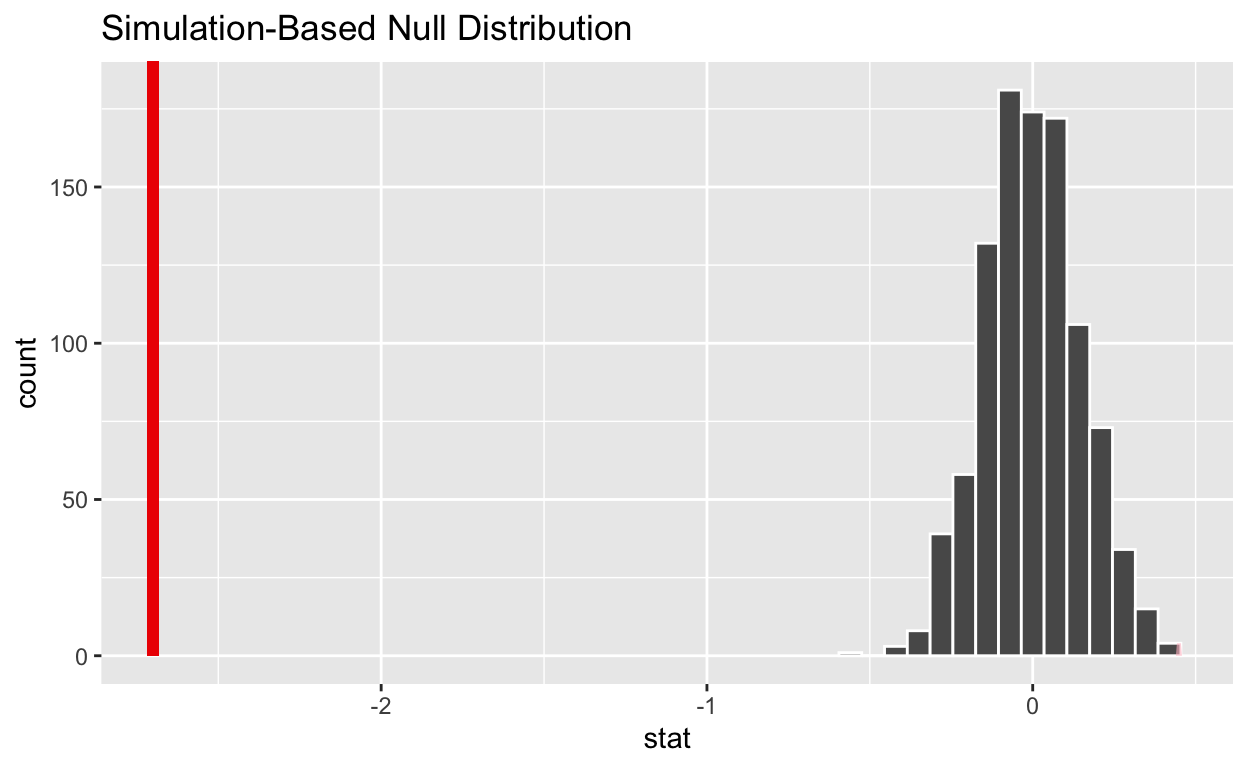
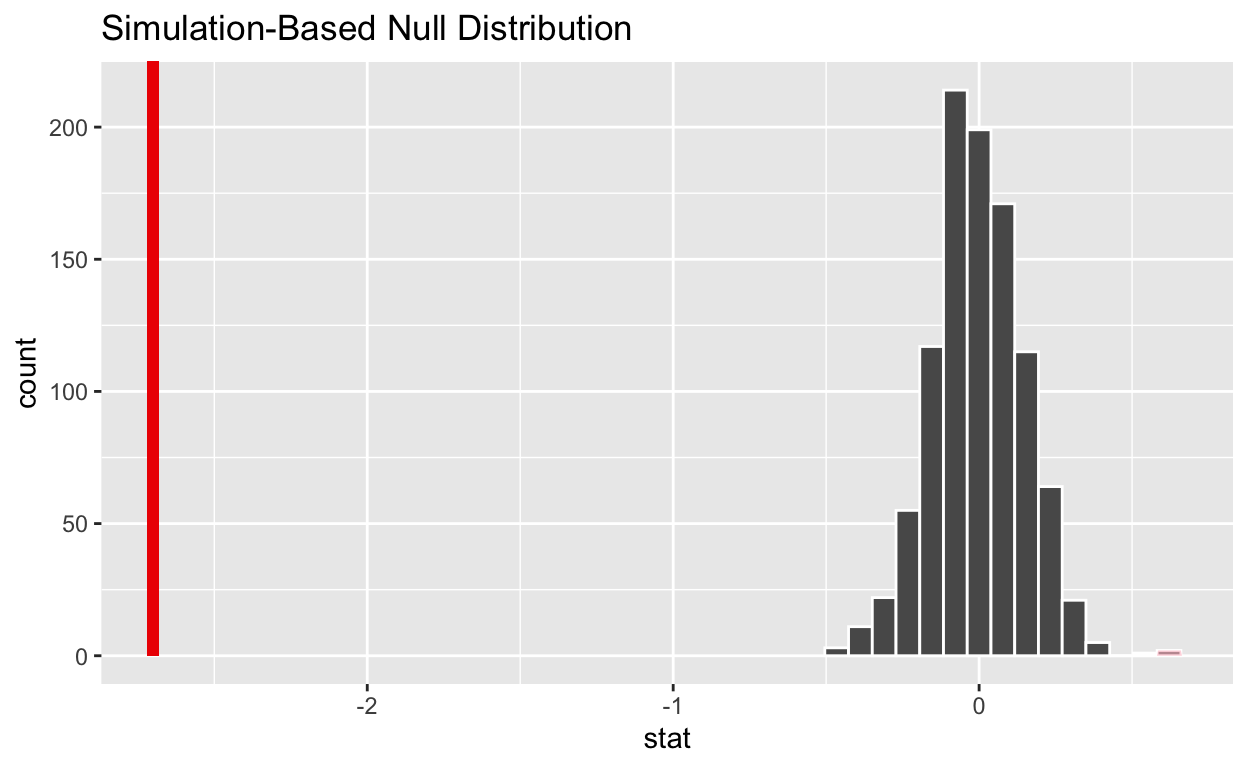
round 1

diff --git a/index.html b/index.html
@@ -48,7 +48,7 @@
   <!--/radix_placeholder_rmarkdown_metadata-->
   
   <script type="text/json" id="radix-resource-manifest">
-  {"type":"character","attributes":{},"value":["BVP-Nasdaq-Emerging-Cloud-Index (2).csv","BVP-Nasdaq-Emerging-Cloud-Index (2).xlsx","final-project-_files/anchor-4.2.2/anchor.min.js","final-project-_files/bowser-1.9.3/bowser.min.js","final-project-_files/distill-2.2.21/template.v2.js","final-project-_files/figure-html5/unnamed-chunk-1-1.png","final-project-_files/figure-html5/unnamed-chunk-1-2.png","final-project-_files/header-attrs-2.24/header-attrs.js","final-project-_files/jquery-3.6.0/jquery-3.6.0.js","final-project-_files/jquery-3.6.0/jquery-3.6.0.min.js","final-project-_files/jquery-3.6.0/jquery-3.6.0.min.map","final-project-_files/popper-2.6.0/popper.min.js","final-project-_files/tippy-6.2.7/tippy-bundle.umd.min.js","final-project-_files/tippy-6.2.7/tippy-light-border.css","final-project-_files/tippy-6.2.7/tippy.css","final-project-_files/tippy-6.2.7/tippy.umd.min.js","final-project-_files/webcomponents-2.0.0/webcomponents.js","final-project-.html","index_files/anchor-4.2.2/anchor.min.js","index_files/bowser-1.9.3/bowser.min.js","index_files/distill-2.2.21/template.v2.js","index_files/figure-html5/pressure-1.png","index_files/figure-html5/unnamed-chunk-1-1.png","index_files/figure-html5/unnamed-chunk-2-1.png","index_files/figure-html5/unnamed-chunk-2-2.png","index_files/figure-html5/unnamed-chunk-3-1.png","index_files/figure-html5/unnamed-chunk-4-1.png","index_files/figure-html5/unnamed-chunk-5-1.png","index_files/header-attrs-2.17/header-attrs.js","index_files/header-attrs-2.24/header-attrs.js","index_files/jquery-3.6.0/jquery-3.6.0.js","index_files/jquery-3.6.0/jquery-3.6.0.min.js","index_files/jquery-3.6.0/jquery-3.6.0.min.map","index_files/popper-2.6.0/popper.min.js","index_files/tippy-6.2.7/tippy-bundle.umd.min.js","index_files/tippy-6.2.7/tippy-light-border.css","index_files/tippy-6.2.7/tippy.css","index_files/tippy-6.2.7/tippy.umd.min.js","index_files/webcomponents-2.0.0/webcomponents.js","index.pdf","pollster-ratings.csv","raw-polls.csv"]}
+  {"type":"character","attributes":{},"value":["BVP-Nasdaq-Emerging-Cloud-Index (2).csv","BVP-Nasdaq-Emerging-Cloud-Index (2).xlsx","final-project-_files/anchor-4.2.2/anchor.min.js","final-project-_files/bowser-1.9.3/bowser.min.js","final-project-_files/distill-2.2.21/template.v2.js","final-project-_files/figure-html5/unnamed-chunk-1-1.png","final-project-_files/figure-html5/unnamed-chunk-1-2.png","final-project-_files/header-attrs-2.24/header-attrs.js","final-project-_files/jquery-3.6.0/jquery-3.6.0.js","final-project-_files/jquery-3.6.0/jquery-3.6.0.min.js","final-project-_files/jquery-3.6.0/jquery-3.6.0.min.map","final-project-_files/popper-2.6.0/popper.min.js","final-project-_files/tippy-6.2.7/tippy-bundle.umd.min.js","final-project-_files/tippy-6.2.7/tippy-light-border.css","final-project-_files/tippy-6.2.7/tippy.css","final-project-_files/tippy-6.2.7/tippy.umd.min.js","final-project-_files/webcomponents-2.0.0/webcomponents.js","final-project-.html","index_files/anchor-4.2.2/anchor.min.js","index_files/bowser-1.9.3/bowser.min.js","index_files/distill-2.2.21/template.v2.js","index_files/figure-html5/pressure-1.png","index_files/figure-html5/unnamed-chunk-1-1.png","index_files/figure-html5/unnamed-chunk-2-1.png","index_files/figure-html5/unnamed-chunk-2-2.png","index_files/figure-html5/unnamed-chunk-3-1.png","index_files/figure-html5/unnamed-chunk-4-1.png","index_files/figure-html5/unnamed-chunk-5-1.png","index_files/figure-html5/unnamed-chunk-7-1.png","index_files/header-attrs-2.17/header-attrs.js","index_files/header-attrs-2.24/header-attrs.js","index_files/jquery-3.6.0/jquery-3.6.0.js","index_files/jquery-3.6.0/jquery-3.6.0.min.js","index_files/jquery-3.6.0/jquery-3.6.0.min.map","index_files/popper-2.6.0/popper.min.js","index_files/tippy-6.2.7/tippy-bundle.umd.min.js","index_files/tippy-6.2.7/tippy-light-border.css","index_files/tippy-6.2.7/tippy.css","index_files/tippy-6.2.7/tippy.umd.min.js","index_files/webcomponents-2.0.0/webcomponents.js","index.pdf","pollster-ratings.csv","raw-polls.csv"]}
   </script>
   <!--radix_placeholder_navigation_in_header-->
   <!--/radix_placeholder_navigation_in_header-->
@@ -1471,8 +1471,8 @@
 <p><img src="index_files/figure-html5/pressure-1.png" width="624" /></p>
 </div>
 <p>Note that the <code>echo = FALSE</code> parameter was added to the code chunk to prevent printing of the R code that generated the plot.</p>
-<p>#INTRODUCTION:
-For my project I have decided to examine data related to elections from 1998 to 2020 to see what variables have caused polls to be inaccurate. Going into the project,I assumed that polls were, generally speaking, biased towards democrats given the inaccurate polls during the 2016 election. More broadly, as a result of the shock of the 2016 election, public confidence in polls and election predictions generally has plummeted. This has meant that some voters completely discopnect themselves from viewing political news before elections because they don’t trust polls and the media. To understand why polls can be inaccurate, I looked at two main explanatory variables: sample size and the way the polls were conducted.</p>
+<h1 id="introduction">INTRODUCTION:</h1>
+<p>For my project I have decided to examine data related to elections from 1998 to 2020 to see what variables have caused polls to be inaccurate. Going into the project, I assumed that polls were, generally speaking, biased towards democrats given the inaccurate polls during the 2016 election. More broadly, as a result of the shock of the 2016 election, public confidence in polls and election predictions generally has plummeted. This has meant that some voters completely disconnect themselves from viewing political news before elections because they don’t trust polls and the media. To understand why polls can be inaccurate, I looked at two main explanatory variables: sample size and the way the polls were conducted.</p>
 <div class="layout-chunk" data-layout="l-body">
 <div class="sourceCode">
 <pre class="sourceCode r"><code class="sourceCode r"><span><span class='kw'><a href='https://rdrr.io/r/base/library.html'>library</a></span><span class='op'>(</span><span class='va'><a href='https://github.com/tidymodels/infer'>infer</a></span><span class='op'>)</span></span>
@@ -1526,7 +1526,17 @@ For my project I have decided to examine data related to elections from 1998 to 
 <span>  <span class='fu'><a href='https://ggplot2.tidyverse.org/reference/labs.html'>labs</a></span><span class='op'>(</span>x <span class='op'>=</span> <span class='st'>"Direction of Poll bias"</span>, y <span class='op'>=</span> <span class='st'>"Count of Polls"</span><span class='op'>)</span></span>
 <span><span class='va'>biastotal</span></span></code></pre>
 </div>
-<img src="index_files/figure-html5/unnamed-chunk-1-1.png" width="624" />
+<p><img src="index_files/figure-html5/unnamed-chunk-1-1.png" width="624" /></p>
+</div>
+<p>As we can see, polling errors over the last 20 years are fairly evenly distrubited between Democrats and Republicans. But why are there errors in the first place?
+My research question: Is there a relationship between the way polls are conducted and the accuracy of the polls and how does sample size affect accuracy? My hypothesis was that polls that had larger sample sizes and those that were not conducted by live phone would prove to be the most accurate. This is because of ‘cancellation fear’ that many Trump supporters, particularly females, had in 2016 that made them afraid to admit support for candidate Trump to a live person.</p>
+<p>If I observe that polls with a larger sample size had lower mean errors, then this would support my hypothesis. If I observe that polls that were conducted by Interactive Voice Response (IVR) (an automated telephone system where a person speaks to a robot who recitates pre-recorded messages or texts-to-speech) polls were more accurate than live or mail polls, this would also support my hypothesis. Again, this is because a ‘quiet’ Trump supporter might feel more comfortable revealing their true opinions to a robot than a human</p>
+<p>This study will be informative for the purposes of identifying what types of polls are most accurate and if large sample sizes are actually necessary. Polls with large sample sizes can be more expensive to conduct; If we cannot prove that larger sample sizes increase accuracy then we can show polling organizations that they are not necessary.</p>
+<h1 id="data-and-research-method">Data and Research Method</h1>
+<p>I analyze data from elections from 1998-2020, which includes data from congressional and federal elections. I gained this data from 538’s database on elections. My data comes from two different datasets – one that focuses on different election results / poll error / and another that focuses on the methodologies of the pollster. The datasets include variables such as year, race, location, sample size, the margin predicted by the polls and the actual margin in the election. According to 538 (source of data), The ‘error’ column is the “Absolute value of the difference between the actual and polled result. This is calculated as <code>abs(margin_poll - margin_actual) "</code>bias<code>is calculated only for races in which the top two finishers were a Democrat and a Republican. It is calculated as</code>margin_poll - margin_actual`. Positive values indicate a Democratic bias (the Democrat did better in the poll than the election). Negative values indicate a Republican bias.”</p>
+<h3 id="data-and-research-method-continued">Data and Research Method Continued</h3>
+<p>The first data analysis topic I covered was comparing errors for polls with a small sample size and polls with a large sample size. Small sample type is defined as those samples where the sample size was less than 500 (25th percentile of sample size) and the large_sample was defined as those samples where the sample size was greater than 850 (75th percentile).</p>
+<div class="layout-chunk" data-layout="l-body">
 <div class="sourceCode">
 <pre class="sourceCode r"><code class="sourceCode r"><span> <span class='fu'><a href='https://rdrr.io/r/stats/quantile.html'>quantile</a></span><span class='op'>(</span><span class='va'>Rawpolls</span><span class='op'>$</span><span class='va'>samplesize</span>, probs <span class='op'>=</span> <span class='fl'>0.25</span><span class='op'>)</span></span></code></pre>
 </div>
@@ -1537,15 +1547,6 @@ For my project I have decided to examine data related to elections from 1998 to 
 </div>
 <pre><code>75% 
 850 </code></pre>
-</div>
-<p>As we can see, polling errors over the last 20 years are fairly evenly distrubited between democrats and republicans. But why are there errors in the first place?
-My research question: Is there a relationship between the way polls are conducted and the accuracy of the polls and how does sample size affect accuracy? My hypothesis was that polls that had larger sample sized and those that were not conducted by live phone would prove to be the most accurate. This is because of “cancellation fear” that many Trump supporters, particularly females, had in 2016 that made them afraid to admit support for candidate Trump to a live person. If I observe that polls with a larger sample size had lower mean errors, then this would support my hypothesis. If I observe that polls that were conducted by Interactive Voice Response (IVR) (an automated telephone system where a person speaks to a robot who recitates pre-recorded messages or texts-to-speech) polls were more accurate than live or mail polls, this would also support my hypothesis.</p>
-<p>This study will be informative for the purposes of identifying what types of polls are most accurate and if large sample sizes are actually necessary. Polls with large sample sizes can be more expensive to conduct; If we cannot prove that larger sample sizes increase accuracy then we can show polling organizations that they are not necessary.</p>
-<p>##Data and Research Method</p>
-<p>I analyze data from elections from 1998-2020, which includes data from congressional and federal elections. I gained this data from 538’s database on elections. My data comes from two different datasets – one that focuses on different election results / poll error / and another that focuses on the methodologies of the pollster. The datasets include variables such as year, race, location, sample size, the margin predicted by the polls and the actual margin in the election. The ‘error’ column is the “Absolute value of the difference between the actual and polled result. This is calculated as <code>abs(margin_poll - margin_actual) "</code>bias<code>is calculated only for races in which the top two finishers were a Democrat and a Republican. It is calculated as</code>margin_poll - margin_actual`. Positive values indicate a Democratic bias (the Democrat did better in the poll than the election). Negative values indicate a Republican bias.”</p>
-<p>#Data and Research Method
-The first data anslysis topic I covered was comparing errors for polls with a small sample size and polls with a large sample size. Small sample type is defined as those samples where the sample size was less than 500 (25th percentile of sample size) and the large_sample was defined as those samples where the sample size was greater than 850 (75th percentile).</p>
-<div class="layout-chunk" data-layout="l-body">
 <div class="sourceCode">
 <pre class="sourceCode r"><code class="sourceCode r"><span><span class='va'>samples.error</span> <span class='op'>&lt;-</span> <span class='va'>Rawpolls</span> <span class='op'>|&gt;</span></span>
 <span>  <span class='fu'><a href='https://dplyr.tidyverse.org/reference/group_by.html'>group_by</a></span><span class='op'>(</span><span class='va'>sampletype</span><span class='op'>)</span> <span class='op'>|&gt;</span></span>
@@ -1573,7 +1574,7 @@ The first data anslysis topic I covered was comparing errors for polls with a sm
 </tbody>
 </table>
 </div>
-<p>In this first plot, we can see that polls with a large sample size averaged a 4.7 error while polls with a small sample size averaged a 7.409 error. This means that large sample size polls were 2.7 points more accurate. As we can see the treatment effect of having a larger sample size reduced polling error by 2.7 points for this dataset. To see if this is statistically significant or just do to random chance I ran a p value test under the null hypothesis that there should be no difference in polling error for small vs large sample sizes.</p>
+<p>In this first plot, we can see that polls with a large sample size averaged a 4.7 error while polls with a small sample size averaged a 7.409 error. This means that large sample size polls were 2.7 points more accurate. As we can see the treatment effect of having a larger sample size reduced polling error by 2.7 points for this dataset. To see if this is statistically significant or just do to random chance I ran a p-value test under the null hypothesis that there should be no difference in polling error for small vs large sample sizes.</p>
 <div class="layout-chunk" data-layout="l-body">
 <div class="sourceCode">
 <pre class="sourceCode r"><code class="sourceCode r"><span><span class='va'>Rawpolls</span></span></code></pre>
@@ -1624,19 +1625,34 @@ Explanatory: sampletype (factor)
 </div>
 <img src="index_files/figure-html5/unnamed-chunk-3-1.png" width="624" />
 <div class="sourceCode">
-<pre class="sourceCode r"><code class="sourceCode r"><span><span class='va'>ate1_pvalue</span> <span class='op'>&lt;-</span> <span class='va'>ate_rawpolls_dust</span> <span class='op'>|&gt;</span></span>
-<span>  <span class='fu'><a href='https://infer.tidymodels.org/reference/get_p_value.html'>get_p_value</a></span><span class='op'>(</span>obs_stat <span class='op'>=</span> <span class='va'>ate_rawpolls_dust</span>, direction <span class='op'>=</span> <span class='st'>"both"</span><span class='op'>)</span></span>
+<pre class="sourceCode r"><code class="sourceCode r"><span><span class='va'>ate1_pvalue</span> <span class='op'>&lt;-</span> <span class='fu'><a href='https://infer.tidymodels.org/reference/get_p_value.html'>get_p_value</a></span><span class='op'>(</span><span class='va'>ate_rawpolls_dust</span>, obs_stat <span class='op'>=</span> <span class='va'>ate1</span>, direction <span class='op'>=</span> <span class='st'>"both"</span><span class='op'>)</span></span>
+<span></span>
 <span><span class='va'>ate1_pvalue</span></span></code></pre>
 </div>
 <pre><code># A tibble: 1 × 1
   p_value
     &lt;dbl&gt;
 1       0</code></pre>
+<div class="sourceCode">
+<pre class="sourceCode r"><code class="sourceCode r"><span><span class='fu'>knitr</span><span class='fu'>::</span><span class='fu'><a href='https://rdrr.io/pkg/knitr/man/kable.html'>kable</a></span><span class='op'>(</span><span class='va'>ate1_pvalue</span>, digits <span class='op'>=</span> <span class='fl'>3</span>, col.names <span class='op'>=</span> <span class='fu'><a href='https://rdrr.io/r/base/c.html'>c</a></span><span class='op'>(</span><span class='st'>"pvalue"</span><span class='op'>)</span><span class='op'>)</span></span></code></pre>
+</div>
+<table>
+<thead>
+<tr class="header">
+<th style="text-align: right;">pvalue</th>
+</tr>
+</thead>
+<tbody>
+<tr class="odd">
+<td style="text-align: right;">0</td>
+</tr>
+</tbody>
+</table>
 </div>
 <p>(The red line is the -2.7 ATE calculated in the above)</p>
 <p>This shows that under the null hypothesis where the sample size has no effect on polling error, the chance that we would observe a result where large sample sizes were 2.7 points more accurate is, highly, unlikely. The P value is 0, and it does not even fall on the distribution of possible outcomes. In fact, based on the distributon above, it is only likely that we could observe a difference of 0.5 on either direction.</p>
-<p>As a result, we can reject the null hypothesis. this means that the -2.7 ATE calculated above is statistically signifigant Further evidence of sample sizes effect on poll accuracy comes from a regression I did later.</p>
-<p>#RESULTS</p>
+<p>As a result, we can reject the null hypothesis. This means that the -2.7 ATE calculated above is statistically signifigant Further evidence of sample sizes effect on poll accuracy comes from a regression I did later.</p>
+<h1 id="results">RESULTS</h1>
 <div class="layout-chunk" data-layout="l-body">
 <div class="sourceCode">
 <pre class="sourceCode r"><code class="sourceCode r"><span><span class='va'>Rawpolls</span> <span class='op'>|&gt;</span></span>
@@ -1672,7 +1688,7 @@ Explanatory: sampletype (factor)
 #   cand3_pct &lt;dbl&gt;, margin_poll &lt;dbl&gt;, electiondate &lt;chr&gt;,
 #   cand1_actual &lt;dbl&gt;, cand2_actual &lt;dbl&gt;, margin_actual &lt;dbl&gt;, …</code></pre>
 </div>
-<p>This visualization shows that the optimal number of particpants is around 750. After that, there are decreasing returns to increasing poll sample size, as the slope of the line begins to flatten. Past a 1,000 poll sample size (which is 16.4% % of polls in the data), there is very little improvement in reducing poll error. This suggests that extremely large polls can be a waste of time and resources and should be discontinued for future elections. Instead new ideas about how to improve polling could be better focused by thinking about how polls are conducted.</p>
+<p>This visualization shows that the optimal number of participants is around 750. After that, there are decreasing returns to increasing poll sample size, as the slope of the line begins to flatten. Past a 1,000 poll sample size (which is 16.4% of polls in the data), there is very little improvement in reducing poll error. This suggests that extremely large polls can be a waste of time and resources and should be discontinued for future elections. Instead new ideas about how to improve polling could be better focused by thinking about how polls are conducted.</p>
 <p>Moving on to my discussion of the way in which the polls were conducted, the following graph summarizes mean errors for 17 different polling methods. The graph also contains error bars which, at the bottom, represent the average error - a standard deviation and the top bar which represents the average error plus a standard deviation. This gives viewers a sense of how spread out the errors were for each polling method.</p>
 <div class="layout-chunk" data-layout="l-body">
 <div class="sourceCode">
@@ -1692,14 +1708,16 @@ Explanatory: sampletype (factor)
 <span>    <span class='fu'><a href='https://ggplot2.tidyverse.org/reference/theme.html'>theme</a></span><span class='op'>(</span>axis.text.x <span class='op'>=</span> <span class='fu'><a href='https://ggplot2.tidyverse.org/reference/element.html'>element_text</a></span><span class='op'>(</span>angle <span class='op'>=</span> <span class='fl'>45</span>, hjust <span class='op'>=</span> <span class='fl'>1</span><span class='op'>)</span><span class='op'>)</span></span>
 <span></span>
 <span>   </span>
-<span>   <span class='va'>mediabias.plot</span> <span class='op'>+</span></span>
-<span>  <span class='fu'><a href='https://ggplot2.tidyverse.org/reference/scale_continuous.html'>scale_y_continuous</a></span><span class='op'>(</span>breaks <span class='op'>=</span> <span class='fu'><a href='https://rdrr.io/r/base/seq.html'>seq</a></span><span class='op'>(</span><span class='fl'>0</span>, <span class='fl'>15</span>, by <span class='op'>=</span> <span class='fl'>5</span><span class='op'>)</span><span class='op'>)</span></span></code></pre>
+<span>   <span class='va'>plot2</span> <span class='op'>&lt;-</span> <span class='va'>mediabias.plot</span> <span class='op'>+</span></span>
+<span>  <span class='fu'><a href='https://ggplot2.tidyverse.org/reference/scale_continuous.html'>scale_y_continuous</a></span><span class='op'>(</span>breaks <span class='op'>=</span> <span class='fu'><a href='https://rdrr.io/r/base/seq.html'>seq</a></span><span class='op'>(</span><span class='fl'>0</span>, <span class='fl'>15</span>, by <span class='op'>=</span> <span class='fl'>5</span><span class='op'>)</span><span class='op'>)</span></span>
+<span>   </span>
+<span>   <span class='va'>plot2</span></span></code></pre>
 </div>
 <p><img src="index_files/figure-html5/unnamed-chunk-5-1.png" width="624" /></p>
 </div>
-<p>This visualization may confirm my hypothesis that polling that is live over a telephone is less accurate than online polling (where supporters don’t have to fear repercussions over unpopular political opinions). The Methodoloy with the largest average error and the largest spread of the errors is the Landline method, where a representative from a polling company calls samplants using traditional landline telephones. Further, pollsters that used landline methodology had much higher misses outside margin of error, predicted fewer races accurately and, on average, their polls were very biased in favor of democrats. This suggests that conservative voters may have been shy about voicing their true opinions over the phone.</p>
+<p>This visualization may confirm my hypothesis that polling that is live over a telephone is less accurate than online polling (where supporters don’t have to fear repercussions over unpopular political opinions). The Methodology with the largest average error and the largest spread of the errors is the Landline method, where a representative from a polling company calls samplants using traditional landline telephones. Further, pollsters that used landline methodology had much higher misses outside margin of error, predicted fewer races accurately and, on average, their polls were very biased in favor of democrats. This suggests that conservative voters may have been shy about voicing their true opinions over the phone.</p>
 <p>However, it is important to note that only 6 pollsters (out of 453) in the mediabias dataset used Landline methodology, representing only 1.3% of the pollsters. Further, other methods that involved live interaction between humans such as live and live* did not experience such unusually high and spread out errors. Further, many more pollsters in this dataset used live and live than landline,* meaning that the sample size is sufficient to make a judgement.</p>
-<p>Different IVR polling methods (automated polling methods) had average errors that were generally distributed around 5.5 average error. From this, it is difficult to make a firm conclusion about which polling methods will best minimize error. In order to better understand which Methodoligies minimized erros, I did a multi-variable regression; grouping the methodologies by 6 categories: live, IVR, text, online, landline, and mail.</p>
+<p>Different IVR polling methods (automated polling methods) had average errors that were generally distributed around 5.5. From this, it is difficult to make a firm conclusion about which polling methods will best minimize error. In order to better understand which Methodoligies minimized erros, I did a multi-variable regression; grouping the methodologies by 6 categories: live, IVR, text, online, landline, and mail.</p>
 <div class="layout-chunk" data-layout="l-body">
 <div class="sourceCode">
 <pre class="sourceCode r"><code class="sourceCode r"><span><span class='co'>#text, online, landline, mail, live, IVR</span></span>
@@ -1776,8 +1794,8 @@ Explanatory: sampletype (factor)
 </table>
 </div>
 <p>This regression shows that when the polling is live, errors go down by -.343 on average, holding other methods constant. It also shows, to my surprise, that when the polling method was IVR (automated polling method), the average errors went up by .320. However, since the P value for this is .590, I do not interpret this as being statistically significant as a .320 increase is a small number and acceptable under the null that the coefficient is 0. There could be also confounders such as disparities in access and eagerness to respond to IVR technology, partisan differences in likelihood to respond to IVR, or demographic characteristic differences such as race, age, gender or location.</p>
-<p>#CONCLUSION
-In conclusion, the data shows that polls have not been overwhelmingly biased toward one party over the other. It does show that polls with a sample size that is around 850 (the 75th percentile of sample size) tend to be 2.7pts more accurate than polls with a smaller sample size below 500 (25th percentile of sample size). The regression suggests that there may be diminishing returns to reducing poll error as sample size increases. While there was some evidence to support my thesis that polling methodologies that included human-to-human contact induced more polling errors, there were many limitations to this aspect of the study, such as sufficient sampling. Another limitation to the mediabias dataset was that, FiveThirtyEight (source of data), did not define what many of the polling methodologies were in the readme file. I was able to google many of definitions on the internet, but different polling organizations sometimes define different specific methodologies differently. As a result, I was limited in my ability to identify the polling methodology that limited errors.
+<h1 id="conclusion">CONCLUSION</h1>
+<p>In conclusion, the data shows that polls have not been overwhelmingly biased toward one party over the other. It does show that polls with a sample size that is around 850 (the 75th percentile of sample size) tend to be 2.7pts more accurate than polls with a smaller sample size below 500 (25th percentile of sample size). The regression suggests that there may be diminishing returns to reducing poll error as sample size increases. While there was some evidence to support my thesis that polling methodologies that included human-to-human contact induced more polling errors, there were many limitations to this aspect of the study, such as sufficient sampling. Another limitation to the mediabias dataset was that, FiveThirtyEight (source of data), did not define what many of the polling methodologies were in the readme file. I was able to google many of definitions on the internet, but different polling organizations sometimes define different specific methodologies differently. As a result, I was limited in my ability to identify the polling methodology that limited errors.
 This study could have been improved if perhaps we also had polling data from other countries with two major political parties, such as Canada and the United Kingdom. This could have assisted in my analysis of identifying which polling methodoligies were most accurate.</p>
 <pre><code>
 
